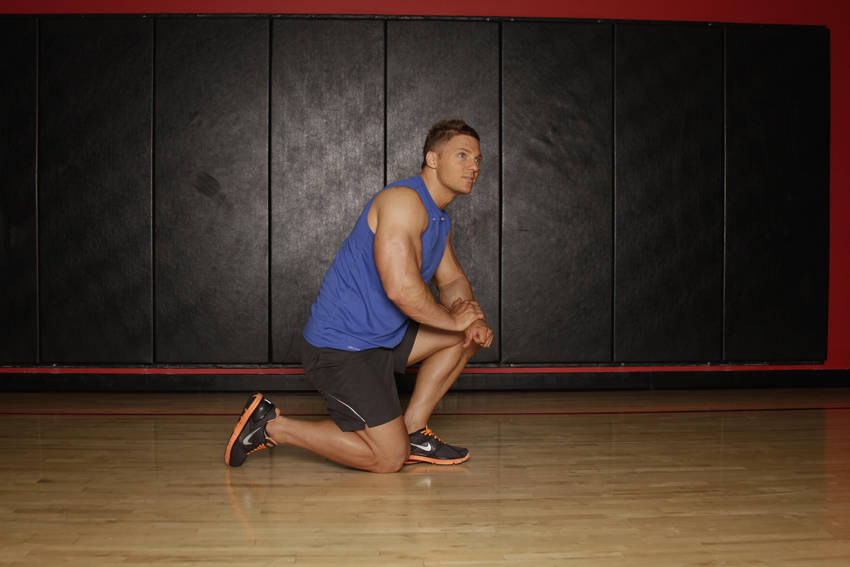
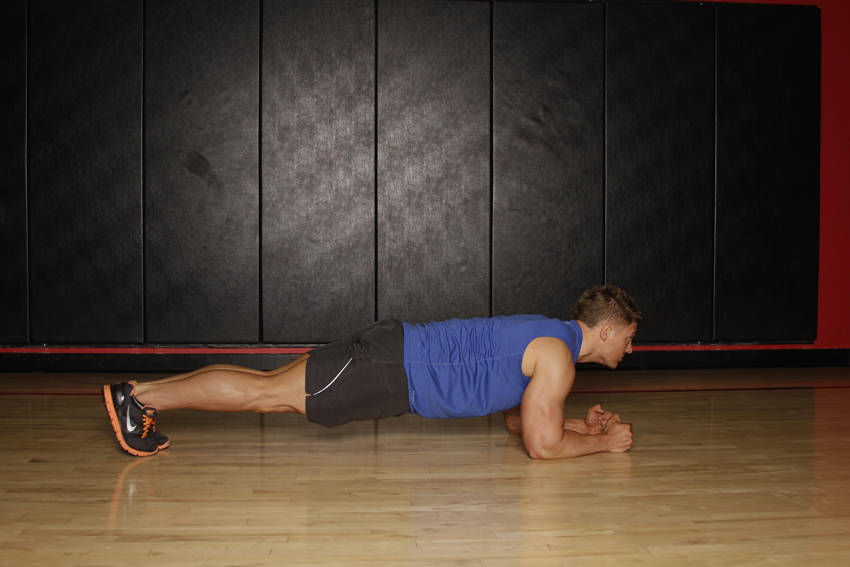
new feature

diff --git a/app/src/main/java/net/jpalayoor/muscletracker/data/AppDatabase.java b/app/src/main/java/net/jpalayoor/muscletracker/data/AppDatabase.java
@@ -8,7 +8,7 @@ import androidx.room.RoomDatabase;
 
 // creating the database
 @Database(entities = {Exercise.class, WorkoutTemplate.class, TemplateExercise.class,
-        WorkoutSession.class, SetLog.class}, version = 3)
+        WorkoutSession.class, SetLog.class}, version = 4)
 public abstract class AppDatabase extends RoomDatabase {
     private static AppDatabase instance;
     public abstract ExerciseDao exerciseDao();

diff --git a/app/src/main/java/net/jpalayoor/muscletracker/MainActivity.java b/app/src/main/java/net/jpalayoor/muscletracker/MainActivity.java
@@ -198,6 +198,8 @@ public class MainActivity extends AppCompatActivity {
             ex.image1 = images.length() > 0 ? images.getString(0) : null;
             ex.image2 = images.length() > 1 ? images.getString(1) : null;
 
+            ex.trackingType = safeString(obj, "trackingType");
+
             result.add(ex);
         }
         return result;

diff --git a/app/src/main/java/net/jpalayoor/muscletracker/data/Exercise.java b/app/src/main/java/net/jpalayoor/muscletracker/data/Exercise.java
@@ -26,4 +26,5 @@ public class Exercise {
     public String instructions;
     public String image1;
     public String image2;
+    public String trackingType;
 }

diff --git a/app/src/main/java/net/jpalayoor/muscletracker/data/SetLog.java b/app/src/main/java/net/jpalayoor/muscletracker/data/SetLog.java
@@ -13,4 +13,5 @@ public class SetLog {
     public int reps;
     public int setNumber;
     public long timestamp;
+    public Integer durationSeconds;
 }
